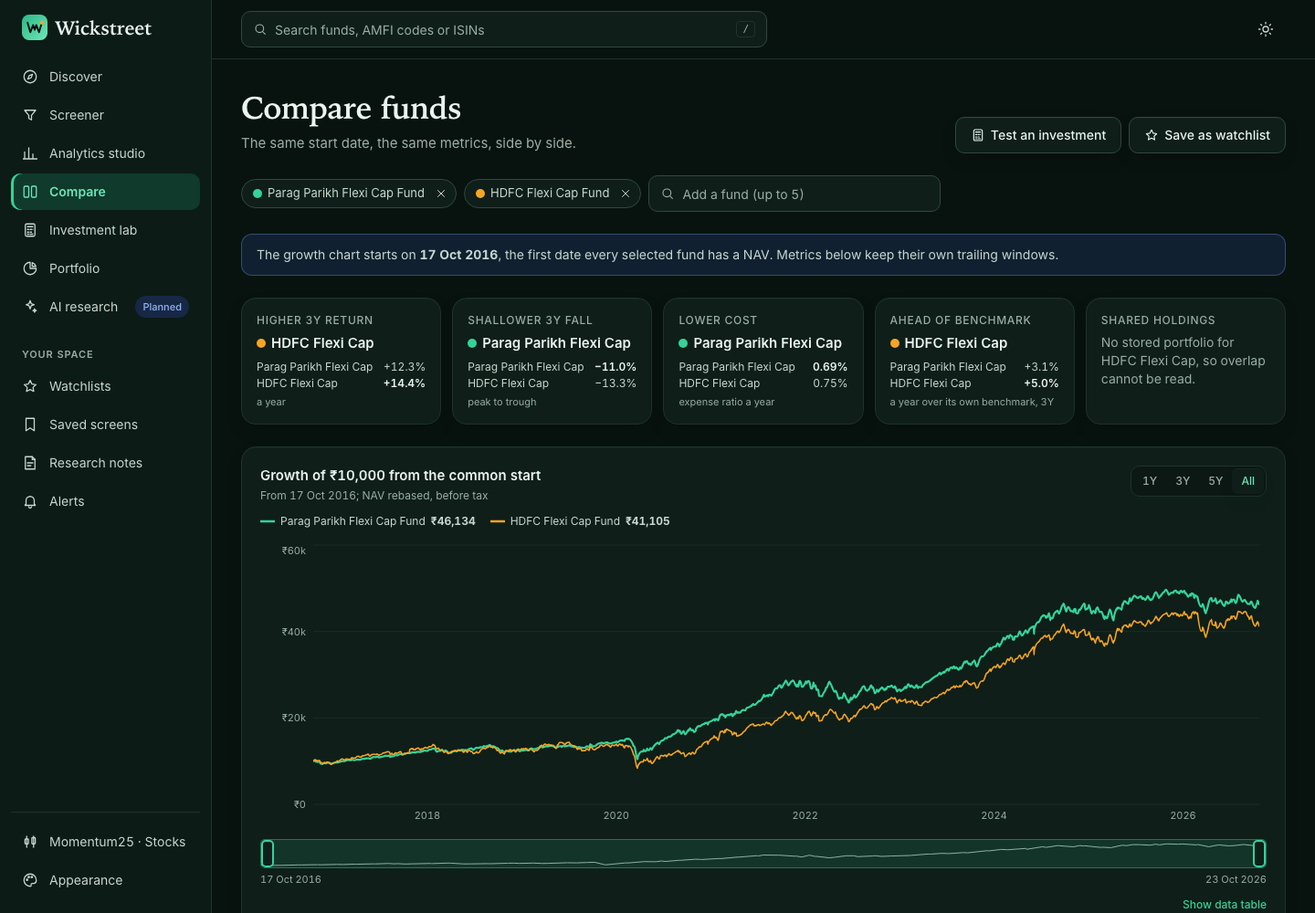
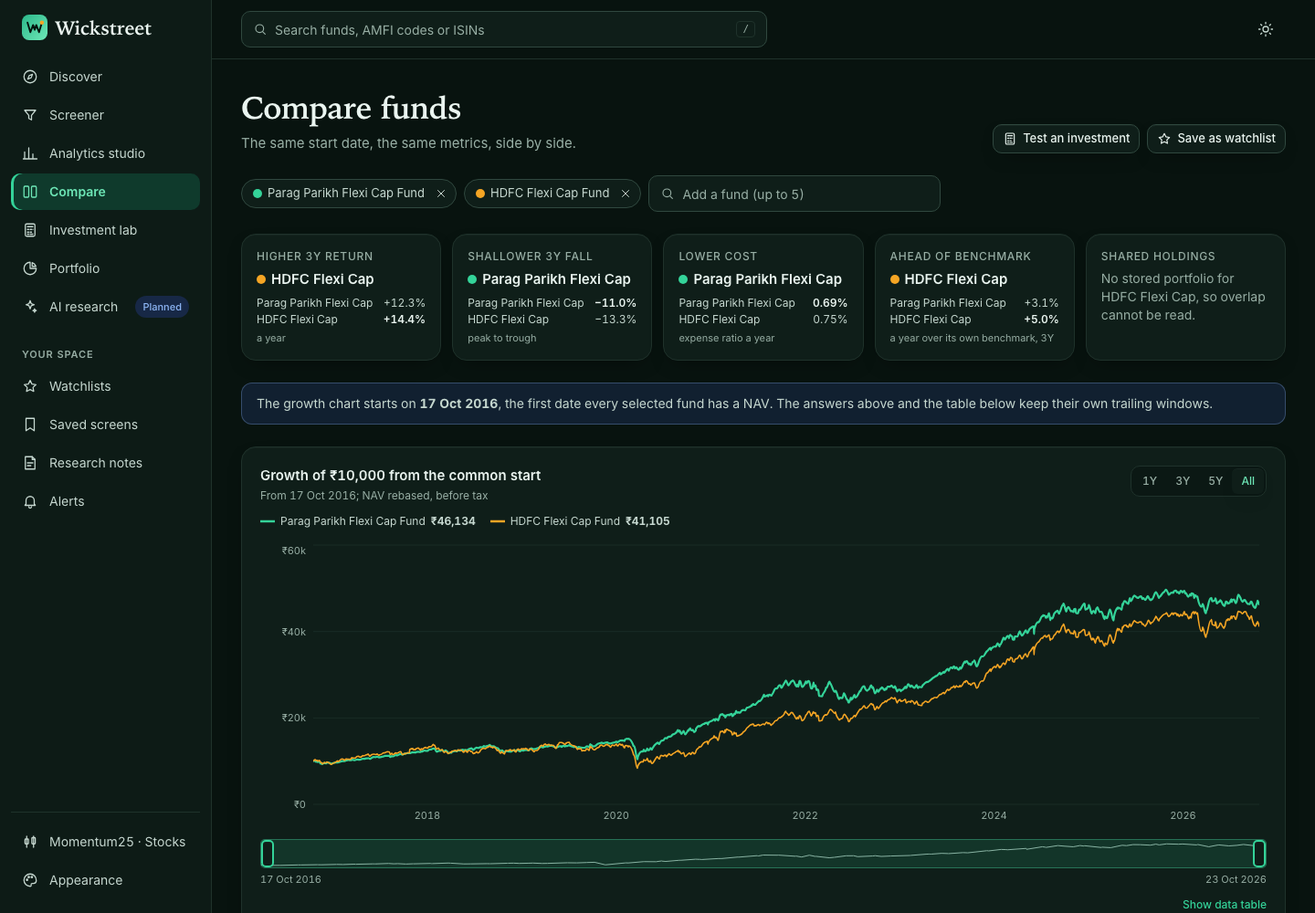
fix(wickstreet): act on independent review 2
Screen readers hear the phone key facts again. The managers fact uses
the document's count and says when it was read. Sharpe names its
risk-free basis. Compare fits its five answers on a phone screen and
its examples share holdings. Ask drops internal codes.

Changed region(s): [[0.1875, 0.248, 0.9688, 0.465], [0.7188, 0.124, 0.9688, 0.155]]

diff --git a/web/src/features/mf/routes/compare.tsx b/web/src/features/mf/routes/compare.tsx
@@ -198,11 +198,11 @@ export default function Compare() {
         lead="The same start date, the same metrics, side by side."
         actions={
           <>
-            <Link to={labHref} className={buttonClass('secondary')}>
+            <Link to={labHref} className={buttonClass('secondary', 'sm')}>
               <I.lab className="h-4 w-4" />
               Test an investment
             </Link>
-            <Button disabled={!data || create.isPending} onClick={() => create.mutate({ name: `Comparison · ${funds.map((f) => schemeName(f.name).split(' ')[0]).join(', ')}`.slice(0, 120), body: { codes } })}>
+            <Button size="sm" disabled={!data || create.isPending} onClick={() => create.mutate({ name: `Comparison · ${funds.map((f) => schemeName(f.name).split(' ')[0]).join(', ')}`.slice(0, 120), body: { codes } })}>
               <I.star className="h-4 w-4" />
               {create.isSuccess ? 'Saved as a watchlist' : 'Save as watchlist'}
             </Button>
@@ -216,14 +216,15 @@ export default function Compare() {
         <Loading label="Comparing" />
       ) : (
         <div className={cx('space-y-6', compare.isPlaceholderData && 'opacity-60')}>
-          <div className="rounded-[12px] border border-mf-info/30 bg-mf-info-soft/60 px-4 py-3 text-sm text-mf-ink-soft">
-            The growth chart starts on <b>{date(data.start)}</b>, the first date every selected fund has a NAV. Metrics below keep their own trailing windows.
-            {categories.size > 1 && ' These funds are in different categories, so their scores rank them against different peers; a higher score is not a win across categories.'}
-          </div>
+
           {example && (
             <p className="text-sm text-mf-muted">These are example funds. Remove them and add your own, or use the compare button on any fund.</p>
           )}
           <AtAGlance funds={funds} codes={codes} dataRevision={dataRevision} />
+          <div className="rounded-[12px] border border-mf-info/30 bg-mf-info-soft/60 px-4 py-3 text-sm text-mf-ink-soft">
+            The growth chart starts on <b>{date(data.start)}</b>, the first date every selected fund has a NAV. The answers above and the table below keep their own trailing windows.
+            {categories.size > 1 && ' These funds are in different categories, so their scores rank them against different peers; a higher score is not a win across categories.'}
+          </div>
           <ChartFrame
             title={period === 'All' ? 'Growth of ₹10,000 from the common start' : `Growth of ₹10,000 over ${period}`}
             subtitle={`From ${date(series[0]?.points[0]?.[0])}; NAV rebased, before tax`}
@@ -378,12 +379,12 @@ function AtAGlance({ funds, codes, dataRevision }: { funds: CompareFund[]; codes
   const pair = overlap.data?.pairs.filter((q) => isNum(q.weighted_overlap)).sort((x, y) => (y.weighted_overlap ?? 0) - (x.weighted_overlap ?? 0))[0];
   const short = (name: string) => schemeName(name).replace(/ Fund$/, '');
   return (
-    <ul className="grid gap-3 sm:grid-cols-2 xl:grid-cols-5" aria-label="At a glance">
+    <ul className="grid grid-cols-2 gap-2 sm:gap-3 xl:grid-cols-5" aria-label="At a glance">
       {questions.map((q) => {
         const known = funds.map((f, i) => ({ f, i, v: f.values[q.id] })).filter((x): x is { f: CompareFund; i: number; v: number } => isNum(x.v));
         const best = known.length > 1 ? known.reduce((a, b) => ((q.better === 'higher' ? b.v > a.v : b.v < a.v) ? b : a)) : null;
         return (
-          <li key={q.id} className="mf-lift rounded-card border border-mf-line bg-mf-surface p-4 shadow-card">
+          <li key={q.id} className="mf-lift rounded-card border border-mf-line bg-mf-surface p-3 shadow-card sm:p-4">
             <p className="text-xs font-medium uppercase tracking-[0.06em] text-mf-muted">{q.title}</p>
             {best ? (
               <>
@@ -391,7 +392,8 @@ function AtAGlance({ funds, codes, dataRevision }: { funds: CompareFund[]; codes
                   <span className="h-2.5 w-2.5 shrink-0 rounded-full" style={{ background: seriesColor(best.i) }} aria-hidden="true" />
                   <span className="truncate" title={best.f.name}>{short(best.f.name)}</span>
                 </p>
-                <ul className="mt-1.5 space-y-0.5 text-xs text-mf-ink-soft">
+                <p className="mt-0.5 text-xs tabular text-mf-ink-soft sm:hidden">{known.map((x) => pct(x.v, q.digits ?? 1, q.id !== 'ter')).join(' vs ')}</p>
+                <ul className="mt-1.5 hidden space-y-0.5 text-xs text-mf-ink-soft sm:block">
                   {known.map((x) => (
                     <li key={x.f.amfi_code} className="flex justify-between gap-2">
                       <span className="truncate">{short(x.f.name)}</span>
@@ -399,7 +401,7 @@ function AtAGlance({ funds, codes, dataRevision }: { funds: CompareFund[]; codes
                     </li>
                   ))}
                 </ul>
-                <p className="mt-1 text-[11px] text-mf-muted">{q.note}</p>
+                <p className="mt-1 hidden text-[11px] text-mf-muted sm:block">{q.note}</p>
               </>
             ) : (
               <p className="mt-1.5 text-sm text-mf-muted">
@@ -409,7 +411,7 @@ function AtAGlance({ funds, codes, dataRevision }: { funds: CompareFund[]; codes
           </li>
         );
       })}
-      <li className="mf-lift rounded-card border border-mf-line bg-mf-surface p-4 shadow-card">
+      <li className="mf-lift rounded-card border border-mf-line bg-mf-surface p-3 shadow-card sm:p-4">
         <p className="text-xs font-medium uppercase tracking-[0.06em] text-mf-muted">Shared holdings</p>
         {pair ? (
           <>

diff --git a/web/src/features/mf/components/fund/Overview.tsx b/web/src/features/mf/components/fund/Overview.tsx
@@ -216,16 +216,18 @@ export function KeyFactsStrip({ code, metrics }: { code: string; metrics: Metric
   const profile = useProfile(code);
   const v = metrics.values;
   const managers = profile.data?.managers ?? [];
+  const managerCount = isNum(v.manager_count) ? v.manager_count : managers.length;
   const items: [string, string][] = [
     ['TER', isNum(v.ter) ? pct(v.ter, 2) : '—'],
     ['AUM', isNum(v.aum_cr) ? `₹${Math.round(v.aum_cr).toLocaleString('en-IN')} Cr` : '—'],
     ['Risk', typeof v.riskometer === 'string' ? v.riskometer : '—'],
     ['Benchmark', typeof v.benchmark === 'string' ? v.benchmark : '—'],
-    ['Manager', managers.length ? `${managers[0].name.replace(/^(Mr|Ms|Mrs|Dr)\.?\s+/, '').split(' ').slice(-1)[0]}${managers.length > 1 ? ` +${managers.length - 1}` : ''}` : '—'],
+    ['Manager', managers.length ? `${managers[0].name.replace(/^(Mr|Ms|Mrs|Dr)\.?\s+/, '').split(' ').slice(-1)[0]}${managerCount > 1 ? ` +${managerCount - 1}` : ''}` : '—'],
     ['Portfolio', typeof v.holdings_as_of === 'string' ? date(v.holdings_as_of) : '—'],
   ];
   return (
-    <a href="#key-facts" className="mt-2 block rounded-[12px] bg-mf-surface/80 p-2 ring-1 ring-mf-line" aria-label="Key facts; go to their dates and sources">
+    <a href="#key-facts" className="mt-2 block rounded-[12px] bg-mf-surface/80 p-2 ring-1 ring-mf-line">
+      <span className="sr-only">Key facts: </span>
       <dl className="grid grid-cols-3 gap-x-2 gap-y-1.5">
         {items.map(([k, value]) => (
           <div key={k} className="min-w-0">
@@ -234,6 +236,7 @@ export function KeyFactsStrip({ code, metrics }: { code: string; metrics: Metric
           </div>
         ))}
       </dl>
+      <span className="sr-only">. Dates and sources are in Key facts below.</span>
     </a>
   );
 }
@@ -249,6 +252,8 @@ export function KeyFacts({ code, metrics }: { code: string; metrics: Metrics }) 
   const v = metrics.values;
   const why = (id: string) => missingLabel(metrics.states[id]);
   const managers = profile.data?.managers ?? [];
+  // The scheme document's count; the dated list can miss a name it could not date.
+  const managerCount = isNum(v.manager_count) ? v.manager_count : managers.length;
   const h = holdings.data;
   const top = h?.lines?.[0];
   const sector = Object.entries(h?.summary?.sectors ?? {}).sort((a, b) => b[1] - a[1])[0];
@@ -305,16 +310,16 @@ export function KeyFacts({ code, metrics }: { code: string; metrics: Metrics }) 
           to="?tab=benchmark"
         />
         <Fact
-          label={managers.length > 1 ? `Fund managers (${managers.length})` : 'Fund manager'}
+          label={managerCount > 1 ? `Fund managers (${managerCount})` : 'Fund manager'}
           value={managers.length ? managers[0].name.replace(/^(Mr|Ms|Mrs|Dr)\.?\s+/, '') : profile.isLoading ? <Skeleton className="h-5 w-32" /> : 'Not filed'}
           sub={
-            managers.length > 1
-              ? `and ${managers.length - 1} more · longest tenure ${Math.max(...managers.map((m) => m.years)).toFixed(1)} yrs`
+            managerCount > 1
+              ? `and ${managerCount - 1} more · longest tenure ${Math.max(...managers.map((m) => m.years)).toFixed(1)} yrs`
               : managers.length
                 ? `Since ${date(managers[0].since)}`
                 : undefined
           }
-          source={managers.length ? `Scheme document of ${date(profile.data?.document?.managers?.as_of)}` : undefined}
+          source={managers.length ? `Scheme summary document, read ${date(profile.data?.document?.managers?.as_of)}` : undefined}
           to="?tab=facts"
         />
         <Fact

diff --git a/web/src/features/mf/routes/ask.tsx b/web/src/features/mf/routes/ask.tsx
@@ -18,8 +18,8 @@ export default function Ask() {
   useTitle('AI research');
   return (
     <div className="space-y-6">
-      <PageHeader eyebrow="Planned · Slice 5" title="Ask Wickstreet, in your language" lead="Questions in English, हिन्दी or Hinglish, answered with cited numbers from the same tools you see here. It opens an editable view you can check and save." />
-      <DependencyPanel title="Research agent" needs="A1, the agent runtime with tool citations and validation (ADR-022)">
+      <PageHeader eyebrow="Coming later" title="Ask Wickstreet, in your language" lead="Questions in English, हिन्दी or Hinglish, answered with cited numbers from the same tools you see here. It opens an editable view you can check and save." />
+      <DependencyPanel title="Research assistant" needs="an assistant that cites every number to a Wickstreet tool">
         Every number in an answer will come from a tool result, never from the model’s wording. No answer is shown until that runtime exists.
       </DependencyPanel>
       <section aria-labelledby="ask-today">

diff --git a/web/src/features/mf/routes/fund.tsx b/web/src/features/mf/routes/fund.tsx
@@ -169,7 +169,7 @@ export default function Fund() {
           Back
         </button>
         {/* One actions row at every width; on phones it scrolls sideways, so no bar covers the page. */}
-        <div tabIndex={0} className="mf-scroll -mr-1 flex min-w-0 gap-2 overflow-x-auto py-1 pr-1 sm:flex-wrap sm:justify-end sm:overflow-visible" role="group" aria-label="Fund actions; scroll sideways for more actions">
+        <div tabIndex={0} className="mf-scroll -mr-1 flex min-w-0 gap-2 overflow-x-auto py-1 pr-6 [mask-image:linear-gradient(to_right,black_calc(100%-1.5rem),transparent)] sm:flex-wrap sm:justify-end sm:overflow-visible sm:pr-1 sm:[mask-image:none]" role="group" aria-label="Fund actions; scroll sideways for more actions">
           {actions}
         </div>
       </div>

diff --git a/web/src/features/mf/components/FundRow.tsx b/web/src/features/mf/components/FundRow.tsx
@@ -13,7 +13,7 @@ export function FundRow({ code, action }: { code: string; action?: ReactNode }) 
     <div className="flex items-center gap-3 py-2.5">
       <Link to={`/mf/funds/${code}`} className="group flex min-w-0 flex-1 items-center gap-3">
         <div className="min-w-0 flex-1">
-          <p className="truncate text-sm font-medium group-hover:text-mf-brand-strong">{schemeName(m.name)}</p>
+          <p className="line-clamp-2 text-sm font-medium group-hover:text-mf-brand-strong">{schemeName(m.name)}</p>
           <p className="text-xs text-mf-muted">{categoryShort(String(m.values.category))}</p>
         </div>
         <div className="text-right text-xs">

diff --git a/web/src/features/mf/context.ts b/web/src/features/mf/context.ts
@@ -12,8 +12,9 @@ const MAX = 5;
 /** Example funds when the visitor has opened none: three flexi caps with long NAV histories. */
 export const EXAMPLES = [
   { code: '122639', name: 'Parag Parikh Flexi Cap Fund' },
+  // The first two have stored portfolios, so a first comparison shows shared holdings (review 2, rank 1).
+  { code: '148990', name: 'ICICI Prudential Flexi Cap Fund' },
   { code: '118955', name: 'HDFC Flexi Cap Fund' },
-  { code: '120166', name: 'Kotak Flexi Cap Fund' },
 ] as const;
 
 const listeners = new Set<() => void>();

diff --git a/docs/plans/wickstreet-2/ui-ux/premium-2026-10-24/REVIEW-2.md b/docs/plans/wickstreet-2/ui-ux/premium-2026-10-24/REVIEW-2.md
@@ -1,0 +1,102 @@
+# REVIEW-2: second independent review of the premium-2026-10-24 milestone
+
+Reviewer: independent, 2026-10-24. Live app at localhost:8000, workspace API mocked in memory (GET returns [], other methods return {}). No uploads, no deletes. Live captures (9 routes, 2 themes, 2 viewports) are in the scratchpad `r2/` folder. I did not re-run Tickertape this round; I did not re-check its numbers.
+
+## Verdict
+
+The fund page and Compare now answer the investor's first questions on desktop, and the phone fund page now shows all six key-fact values on screen 1. The rest is still not "visually exceptional": the screener is almost unchanged, the Compare answers fall below the first phone screen, the default Compare pair cannot show shared holdings, and the new phone facts strip hides its values from screen readers.
+
+## A. REVIEW-1 ranks the ledger marks fixed
+
+| Rank | Verdict | Evidence |
+|---|---|---|
+| 1 Phone fund facts | Partly | Live 390x844: TER, AUM, Risk, Benchmark, Manager, Portfolio date all sit at y=369-411 on screen 1 (was 0 of 6). Only one fixed bar remains (tab bar, 65 px). But the strip has no as-of dates; the first dated line is at y=1252 and the last (managers, holdings) at y=1653-1670, so dates need 2 scrolls. The chart shows about 77 px of plot above the tab bar, a sliver. The strip link has `aria-label="Key facts; go to their dates and sources"`, so a screen reader never hears the six values (axe `label-content-name-mismatch`). |
+| 2 Proxy vs benchmark | Partly | Desktop legend reads "Large-cap proxy, not the benchmark" and the Benchmark card says the dashed line is a proxy. Phone legend reads only "Large-cap proxy"; the "not the benchmark" words are missing there. |
+| 3 Screener clipped column | Partly | "More columns to the right" and a working Scroll button exist; Scroll reveals Consistency and Score category rank. Fund column is sticky. At 1440 the table is 1093 px in 838 px: the last header still reads "Co" and, after Show Return 1Y, "Max drawdc" (header clipped mid-word). The 3Y NAV sparkline slides under the sticky fund avatar when scrolled. |
+| 6 Range inputs (part) | Partly | Placeholders now "Any". Text reads "The 46 funds shown run from −11.5% to 3.37%. All 7,887 plan options with a value run from −98.9% to 93.6%." After typing −10 it reads "The 37 funds shown run from −9.38%..." and the range is now the result, not what the threshold removes. No slider, no histogram, no "37 left" before typing. The filter bar also adds "32,327 exclusions because a value is missing", which is unexplained noise for a 46-fund view. |
+| 7 Asset bar | Fixed | "Equity 85.4, Debt 3.9, Cash 3.9, Other 6.9" labelled (sums to 100.1 by rounding). |
+| 8 Dates and counts | Partly | Overview managers card says "Scheme document of 24 Oct 2026" (that is today's date, which looks like a retrieval date, not a filing date). The Facts & costs managers card still says only "Start dates as filed", no date. Facts tab shows "7 managers in the SSD" while the same page lists 6. "Max" is now "All". Facts tab shows "Allotment date 24-May-2013" only; I found no "launch (NFO)" line. |
+| 9 Sharpe method | Partly | Risk tab: "Sharpe 3Y 0.61 · rank 5 of 36 in category · risk-free 6.25%". Discover shows "Risk-free rate (91-day T-bill) 5.73%". Two risk-free numbers, no window or source beside the Sharpe. |
+| 10 Phone theme icons | Fixed | Appearance icon is a palette; the theme toggle is a moon (light) or sun (dark). |
+| 12 Discover ideas | Partly | Ideas now show scores and chips wrap. But "Calm equity" leads with Aditya Birla International Equity and healthcare sector funds (Sectoral/Thematic, Sharpe 1.20-1.32). Phone search placeholder still cut ("...or an AMF"), and the hero hills still sit behind the "40,214 plan options" line. |
+| 14 Fall bands | Fixed | Bands are one faint neutral hue; dark mode no longer olive. Still on by default; on light they are still the most visible mark after the line. |
+| 15 11px sources | Fixed | Date lines measure 12 px. One 10 px label remains ("/100" in the score ring). |
+| 4, 5, 13 (open in ledger) | Not fixed | 4: screener looks the same (see weakness 3). 5: confirmed below. 13: y-axis still starts at ₹0 on fund and Compare charts. |
+| 11 Portfolio (partly in M2) | Partly | Page now has "What you will see", a three-step CAS guide and two live tools; the CAS drop zone is styled. The Password label still sits about 30 px above the CAS label on desktop; Preview is disabled with no reason beside it; about 240 px of blank space below the cards. |
+
+Rank 5 check: Fund house checklist still lists "360 ONE Asset Management Limited" and "360 ONE Mutual Fund" as separate values (112 values, duplicates for ABSL, Axis, HDFC, Bandhan and others). "parag" returns nothing; "ppfas" finds "PPFAS Asset Management Pvt. Ltd.". The Find box is clipped at the right edge. No per-AMC fund counts. The Find box is not focused when the list opens.
+
+## Measured numbers
+
+Fund page (fund 122639):
+
+| Item | Desktop 1440x1000 | Phone 390x844 |
+|---|---|---|
+| Facts visible on screen 1 | 6 of 6, each with its date (dates at y=626-918) | 6 of 6 values, 0 of 6 dates |
+| Scrolls to see all six dated facts | 0 | 2 (about 700 px each); 1 scroll gives TER, AUM, risk, benchmark dates |
+| Chart on screen 1 | full, y=496+ | about 77 px of plot |
+| Fixed bars | none | 65 px tab bar only |
+| Page horizontal overflow, all 9 routes | none | none |
+
+Screener, "show 1Y return, keep funds above −10%": 2 clicks (Show Return 1Y checkbox, Minimum box) + 3 keys; 46 to 37 funds; Return 1Y becomes the first data column; the request is `ret_1y between [-0.1, null]`. Keyboard only: 29 Tab presses to the Show checkbox, Space, 2 Tab to Minimum, 3 keys. The Return 1Y chip reads "Return 1Y ≥ -10%".
+
+Screener, "keep one fund house": group path is 4 clicks + 5 keys (Fund group, Filter by Fund house, Find box, type "ppfas", tick). Search path is 4 clicks + about 14 keys. "parag" fails.
+
+Compare PPFAS (122639) + HDFC (118955):
+- Desktop: all three answers on screen 1 from the "At a glance" strip. Cheaper: PPFAS, 0.69% vs 0.75%. Fell less: PPFAS, −11.0% vs −13.3%. Higher 3Y return: HDFC, +14.4% vs +12.3%. Shared holdings: "No stored portfolio for HDFC Flexi Cap, so overlap cannot be read." So the default pair cannot answer the holdings question.
+- Same page with 150346, 149763 or 148990 instead of HDFC: overlap 22.6%, 13.8%, 24.3% with security counts and a 30 Sep 2026 date.
+- Phone: "Higher 3Y return" at y=598 is the only answer in full on screen 1. "Shallower fall" starts at y=749 (cut by the tab bar), "Lower cost" at y=900, the overlap card at y=1202 or lower. Cheaper and fell-less need 1 scroll; the holdings answer needs 2. The 5 cards stack one per screen.
+
+## Visual problems seen in the captures (all 9 routes)
+
+- Screener, desktop light and dark: fund names wrap to 2-3 lines with a code line under; header clipped ("Co"); "High to low" is an orphan label between selects; native grey selects for Category and Sort.
+- Screener, phone: 4 header blocks (title, count, chips, Filters, two selects, Columns) take about 440 px before the first fund; one fund per screen; "Score category r..." truncated.
+- Workspace, desktop: empty watchlist leaves about 450 px blank; the "+" button is washed out; "Nothing here yet." is plain text.
+- Workspace, phone: all three starter fund names truncate ("Parag Parikh Fle...", "HDFC Flexi Cap ...", "Kotak Flexi Cap ...").
+- Ask, both viewports: "PLANNED · SLICE 5", "Needs: A1, the agent runtime ... (ADR-022)" are internal build terms shown to investors; the page sits in the main nav with a "Planned" badge.
+- Discover, phone: hills art runs behind the stat line; placeholder cut. Desktop: the "Market today" mini chart is red and falling while its headline says "recovery ... +4.2%".
+- Studio: one plain line chart under a long tab row; no stated takeaway. Phone tab row is cut after "Peer rankings" with no cue.
+- Portfolio: see rank 11 above.
+- Fund, phone: action row clips mid-word under "Back" when scrolled ("pare"); "How it ranks" wraps to a second line beside the ring.
+- Dark theme: no broken contrast found by axe; the fund and Compare pages look good in dark.
+
+## Ranked remaining weaknesses
+
+| Rank | Screen | Evidence | Why it matters to an investor | Fix |
+|---|---|---|---|---|
+| 1 | Compare, default PPFAS + HDFC | Overlap card says "No stored portfolio for HDFC Flexi Cap". This pair is the workspace starter set. Other pairs work (13.8-24.3%). | "Do they share holdings?" is one of the three questions Compare exists for. It fails on the most-clicked pair. | Load HDFC holdings (owner file needed; AMC is bot-blocked). Until then say "HDFC has not published a stored portfolio; showing category overlap" and hide the empty card. |
+| 2 | Compare, phone | One answer visible on screen 1; cheaper at y=900, overlap at y=1202+; 5 cards stack. | Most users are on a phone. The page's main promise is below the fold. | One 2-column table (metric, fund A, fund B, winner mark) above the chart; 4 rows fit on screen 1. |
+| 3 | Screener, desktop and phone | Same layout as before. Table 1093 px in 838 px; clipped headers; 2-3 line names; native selects; one fund per phone screen. | The screener is the work surface. REVIEW-1 rank 4 is unchanged, and the owner asked for lively and exceptional. | Single-line name with AMC under it; drop the 3Y NAV sparkline when width is under 1100; styled selects; 2-line phone rows with two metrics. |
+| 4 | Screener, fund-house filter | 112 values with duplicates; "parag" returns nothing; Find box clipped; no counts; not auto-focused. | An investor searches by brand. Duplicates can hide funds from a one-house filter. | Merge AMC names to one canonical house; add alias "Parag Parikh = PPFAS"; show fund count per house; autofocus Find; fix the clip. |
+| 5 | Fund, phone, key-facts strip | `aria-label="Key facts; go to their dates and sources"` replaces the visible values. axe: `label-content-name-mismatch` (serious). Strip shows no dates. | Screen-reader users hear no TER or AUM. Sighted users see undated numbers, against the "every figure dated" rule. | Remove the aria-label or start it with the visible text ("TER 0.69%, AUM ..."). Add "AMFI, 1-22 Oct 2026" under the strip. |
+| 6 | Screener, range control | Text describes the shown set; after typing it just echoes the typed edge (−9.38%). No distribution, no "N left" before typing. Extra "32,327 exclusions" line. | The investor still cannot see what a threshold removes before choosing it. | Show a small histogram of the 46-fund set with the threshold marker and "37 of 46 kept" live. Hide or explain the exclusions line. |
+| 7 | Fund, managers and Sharpe | Overview says "6 managers", Facts says "7 managers in the SSD" and lists 6. Managers date "24 Oct 2026" equals today. Sharpe shows risk-free 6.25%, Discover shows 5.73%. | Cross-checks on a second site look like errors. The brief was "every figure dated". | Reconcile the count and say why (7 filed, 6 listed). Show the real filing date. Print "3Y, risk-free 6.25% (source, window)" and use one risk-free value name across pages. |
+| 8 | Ask (and nav) | "PLANNED · SLICE 5", "A1", "ADR-022" on the page; a "Planned" item in main nav. | Build jargon in front of investors reads as unfinished. | Remove internal codes; move the page out of primary nav until it works, or title it "Ask (coming soon)" with plain copy. |
+| 9 | Workspace | 450 px blank on desktop; phone starter names truncate; "+" button washed out; empty state is a text line. | First impression of the personal area is empty and cramped. | Let names wrap on phone; fill the empty area with the three starter funds as full-width cards; give "+" a clear enabled state. |
+| 10 | Discover | "Calm equity" leads with sector healthcare funds; red falling sparkline under a "recovery +4.2%" headline; phone hills behind text; placeholder cut. | The first idea contradicts its label, and the market card contradicts itself. | Restrict "Calm equity" to diversified categories; colour the line by the headline sign or label the window; remove art under text; shorten the placeholder to "Search a fund or AMFI code". |
+| 11 | Fund and Compare charts | y-axis starts at ₹0; the first two years are a flat strip; bands on by default. | The line differences that matter (last 5 years) use the top half of the plot. | Start the axis at the data minimum or default to log scale; default the bands off, on by a toggle. |
+| 12 | Fund, phone | Chart gets about 77 px above the tab bar; action row clips mid-word under Back ("pare"); "How it ranks" wraps beside the ring; legend loses "not the benchmark". | The chart is the product's hero and shows as a sliver. | Collapse the facts strip to two rows or put the chart above the tabs; add a fade on the action row; restore the full proxy label on phone. |
+
+## D. Accessibility smoke
+
+Keyboard:
+- Phone Fund actions: Tab 7 reaches the group (tabindex 0, role group, label "Fund actions; scroll sideways for more actions"). Tabs 8-11 reach Add to watchlist, Compare, Test an investment, Notes; the row scrolls so each is fully visible. Focus ring on every stop: 3px solid rgb(4,120,87) light. The ring on Notes is slightly clipped at the right edge.
+- Screener range: 29 Tab presses to the Show Return 1Y checkbox (no skip link to the filter rail; only "Skip to content"). After Space, Tab 1 is "Filter by Return 1Y", Tab 2 is "Minimum Return 1Y", Tab 3 is "Maximum Return 1Y". Same 3px ring. Typing −10 works from the keyboard.
+
+axe-core (wcag2a, wcag2aa, wcag21a, wcag21aa), logged out, workspace mocked:
+
+| Route | Desktop 1440 light | Desktop dark | Phone 390 light | Phone dark |
+|---|---|---|---|---|
+| /mf/funds/122639 | 0 | 0 | 1 serious: label-content-name-mismatch (the key-facts strip link) | 1 (same) |
+| /mf/screen | 0 | 0 | 0 | 0 |
+| /mf/compare?code=122639&code=118955 | 0 | 0 | 0 | 0 |
+| /mf/portfolio | 0 | 0 | 0 | 0 |
+| /mf/workspace | 0 | 0 | 0 | 0 |
+
+"Incomplete" (not failures): colour contrast on text over gradients (hero, headings) could not be computed; `aria-label` on a plain span for the score ("Score 98 of 100", aria-prohibited-attr); a table header with no data cells in Compare. Contrast on gradient heroes needs a manual check.
+
+## Not done
+
+- No screen-reader run, no 200% zoom, no reduced-motion check.
+- Tickertape pages were not re-opened. Comparisons rely on REVIEW-1.
+- Studio and Lab were checked by eye only; no task was timed there.

diff --git a/docs/plans/wickstreet-2/execution-ledger.md b/docs/plans/wickstreet-2/execution-ledger.md
@@ -20,6 +20,7 @@ Every backlog item also uses the product-wide interaction rule in [the design sy
 
 ## Current milestone evidence
 
+- Independent review 2 (`ui-ux/premium-2026-10-24/REVIEW-2.md`) and fixes (2026-10-24). Review 2 verified review 1 ranks 7, 10, 14, 15 fixed; 1, 2, 3, 6, 8, 9, 11, 12 partly; 4, 5, 13 not. Fixed now: the phone key-facts strip no longer hides its six values from screen readers (axe `label-content-name-mismatch`, serious; phone axe now clean on fund, compare, ask and workspace, light and dark); the managers fact counts the scheme document's 7 names (the dated list parses 6: Ms. Mansi Kariya has no date, a parser gap) and says "read 24 Oct 2026", the date Wickstreet read the document, not a filing date; Sharpe says its risk-free rate is the window average (6.25%, Discover shows today's T-bill 5.73%); the phone legend keeps "Proxy, not benchmark"; the phone actions row fades at its edge; Ask shows no internal codes; Compare's examples are PPFAS, ICICI Prudential Flexi Cap and HDFC Flexi Cap, so the first comparison shows shared holdings (PPFAS and ICICI 24.3%, portfolios of 30 Sep 2026); Compare's five answers fit the first 390×844 screen (was one). Open, for later or the owner: screener table redesign and histogram (review 2 ranks 3, 6); AMC brand aliases and duplicate AMC names (rank 4, data); "Calm equity" admits sector funds (rank 10, preset definition: owner decision); growth axes from ₹0 (rank 11, shared axis logic). MF E2E 82/82, vitest 216/216.
 - Premium transformation, milestone 3 (2026-10-24): review 1 rank 9 fixed, every Sharpe tile prints its risk-free rate (PPFAS 3Y: 0.61, risk-free 6.25%); rank 6 fixed, a refine range also states the range of the funds on screen once every match is loaded ("The 46 funds shown run from …"); Workspace sections never open empty: watchlists offer recent or example funds with a star, saved screens, scenarios and notes link to the tool that makes them. `FundRow` is shared by Discover and Workspace. Capture script now covers 9 routes (adds Workspace and Ask). MF E2E 82/82, vitest 216/216.
 - Independent review 1 (`ui-ux/premium-2026-10-24/REVIEW-1.md`) and fixes (2026-10-24). Fixed: rank 1, phone fund page now shows identity, actions, score, 1Y/3Y/worst fall and all six key facts on the first 390×844 screen (was 0 of 6), with ≥ 80 px of plot above the navigation (the fixed action bar became an inline, sideways-scrolling "Fund actions" row); rank 2, the dashed line reads "Large-cap proxy, not the benchmark" and the Benchmark fact says so; rank 3, the screener shows "More columns to the right" with a Scroll button while columns are hidden, fund column 240 px; rank 6 (part), range placeholders "Any", range text names its scope (all plan options); rank 7, asset bar adds a labelled "Other" share; rank 8, managers carry the scheme-document date, Essentials shows launch (NFO) and allotment dates, window "Max" renamed "All"; rank 10, the phone Appearance icon is a palette, not a second sun; rank 12, Discover ideas lead with scored funds and chips wrap; rank 14, fall bands are one faint neutral hue; rank 15, fact sources 12 px. Ranks 11 and 13 were partly fixed in milestone 2. Open: rank 4 (deeper screener redesign), rank 5 (AMC brand aliases and duplicate AMC names: a data fix), rank 6 (current-set range and histogram), rank 9 (show Sharpe's risk-free rate and window beside the number), rank 13 (growth axes start at ₹0 by design; revisit). Mobile Fund Overview median of 5: LCP 2.17 s, CLS 0.058, 541 kB. MF E2E 82/82 on the rebuilt container, vitest 216/216.
 - Premium transformation, milestone 2 (2026-10-24): Compare and Portfolio answer first. Compare opens with an "At a glance" strip above the chart: higher 3Y return, shallower 3Y fall, lower cost, ahead of benchmark, each naming the stronger fund with every fund's value, plus shared holdings (or which fund has no stored portfolio). Chart window stays in the URL (`?period=`). Portfolio with no statement now shows what the analysis computes, three steps to a detailed CAS, and two tools that work at once (overlap via Compare, SIP replay); it says the reader is tested on sample statements. New `e2e/mf/compare-glance.spec.ts` checks the strip against `/compare`. MF E2E 82/82, vitest 216/216.
